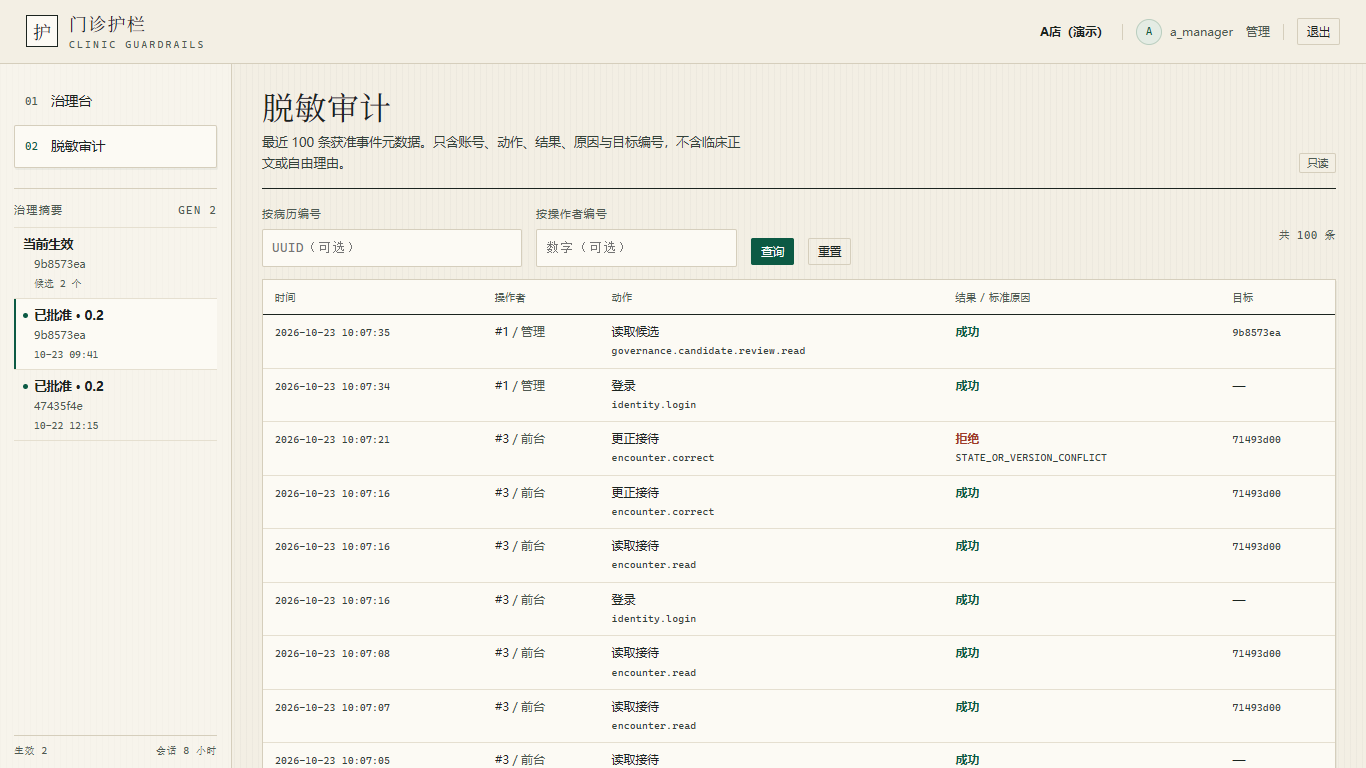
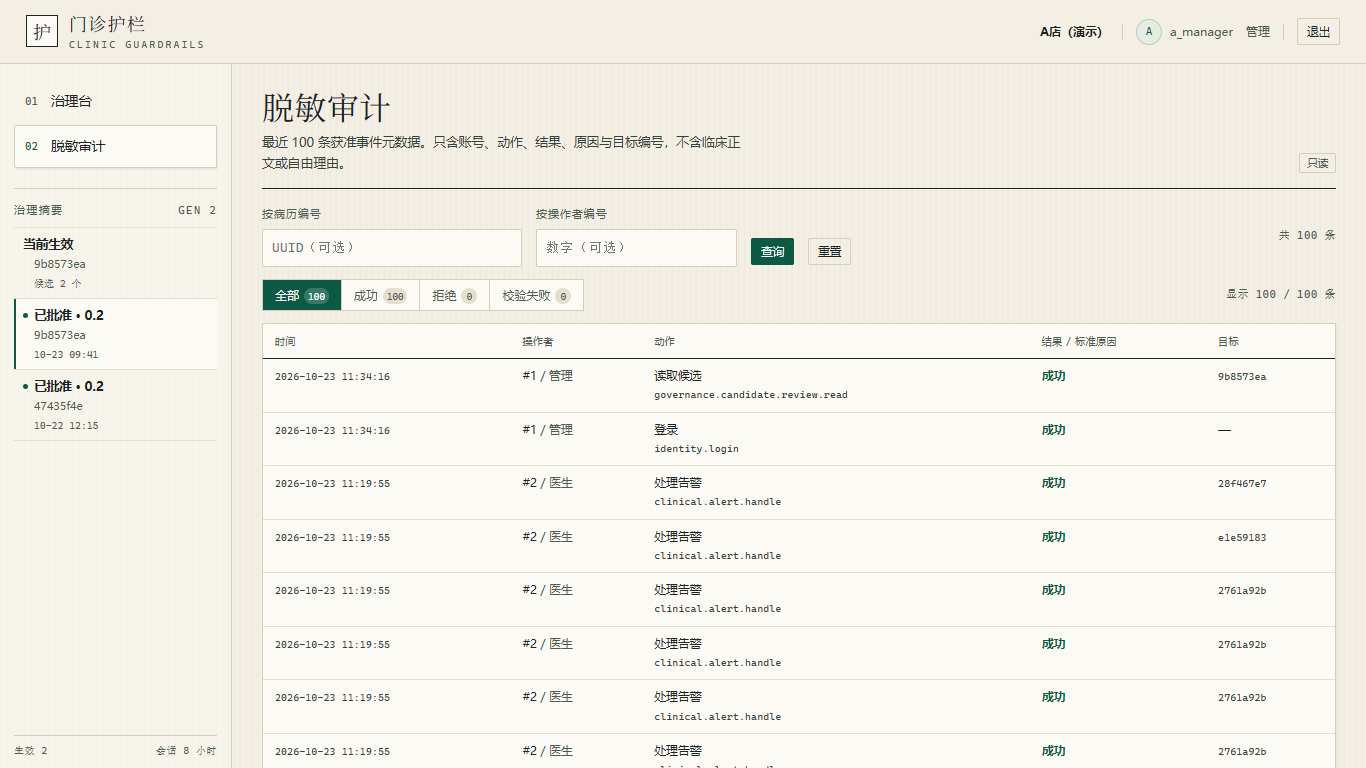
feat: add audit result filters
Show success/refused/validation counts on the audit page and filter the already-returned metadata client-side. Frontend only; no broader audit read.

diff --git a/05_系统代码/frontend/assets/app.js b/05_系统代码/frontend/assets/app.js
@@ -20,6 +20,7 @@ const state = {
   alertFilter: 'unhandled',
   selectedCandidate: '',
   auditFilters: { record_ref: '', operator_ref: '' },
+  auditOutcome: 'all',
   modal: null,
   reloadLatest: null,
   bootError: null
@@ -781,6 +782,7 @@ async function enterApp() {
   state.range = 'all';
   state.alertFilter = 'unhandled';
   state.auditFilters = { record_ref: '', operator_ref: '' };
+  state.auditOutcome = 'all';
   state.selectedCandidate = '';
   purgeForeignDrafts();
   await loadSidebar();
@@ -1700,7 +1702,15 @@ async function viewAudit(view) {
   if (f.record_ref) params.record_ref = f.record_ref;
   if (f.operator_ref) params.operator_ref = f.operator_ref;
   const data = await api('/api/audit' + (Object.keys(params).length ? '?' + qs(params) : ''));
-  const items = data.items || [];
+  const allItems = data.items || [];
+  const counts = {
+    all: allItems.length,
+    success: allItems.filter((e) => e.outcome === 'success').length,
+    refused: allItems.filter((e) => e.outcome === 'refused' || e.outcome === 'request_refused').length,
+    validation_failed: allItems.filter((e) => e.outcome === 'validation_failed').length
+  };
+  const items = state.auditOutcome === 'all' ? allItems :
+    allItems.filter((e) => state.auditOutcome === 'refused' ? (e.outcome === 'refused' || e.outcome === 'request_refused') : e.outcome === state.auditOutcome);
   const rows = items.map((e) => `<tr>
     <td class="nowrap"><code>${esc(fmtFull(e.event_at))}</code></td>
     <td class="nowrap">${e.operator_ref ? '#' + esc(e.operator_ref) : '—'} <span class="muted">/ ${esc(ROLES[e.operator_role] || e.operator_role || '—')}</span></td>
@@ -1719,8 +1729,14 @@ async function viewAudit(view) {
       <div class="field" style="min-width:200px"><label for="audit-operator">按操作者编号</label><input id="audit-operator" name="operator_ref" class="mono" type="text" value="${esc(f.operator_ref)}" placeholder="数字（可选）" autocomplete="off"></div>
       <button class="btn primary sm" type="submit" style="align-self:flex-end;margin-bottom:2px">查询</button>
       <button class="btn ghost sm" type="button" data-action="audit-reset" style="align-self:flex-end;margin-bottom:2px">重置</button>
-      <span class="count">共 ${items.length} 条</span>
+      <span class="count">共 ${allItems.length} 条</span>
     </form>
+    <div class="toolbar audit-outcomes">
+      <div class="seg" role="group" aria-label="审计结果">
+        ${[['all', '全部'], ['success', '成功'], ['refused', '拒绝'], ['validation_failed', '校验失败']].map(([k, l]) => `<button type="button" class="${state.auditOutcome === k ? 'on' : ''}" data-action="audit-outcome" data-outcome="${k}">${l}<span class="seg-count">${counts[k]}</span></button>`).join('')}
+      </div>
+      <span class="count">显示 ${items.length} / ${allItems.length} 条</span>
+    </div>
     <div class="table-wrap">
       <table class="table">
         <thead><tr><th>时间</th><th>操作者</th><th>动作</th><th>结果 / 标准原因</th><th>目标</th></tr></thead>
@@ -2423,7 +2439,8 @@ document.addEventListener('click', async (e) => {
         return;
       }
       case 'alert-filter': state.alertFilter = btn.dataset.filter; await renderRoute(); return;
-      case 'audit-reset': state.auditFilters = { record_ref: '', operator_ref: '' }; await renderRoute(); return;
+      case 'audit-reset': state.auditFilters = { record_ref: '', operator_ref: '' }; state.auditOutcome = 'all'; await renderRoute(); return;
+      case 'audit-outcome': state.auditOutcome = btn.dataset.outcome || 'all'; await renderRoute(); return;
       case 'regen-pet': {
         const input = $('#f-pet_ref');
         if (input) { input.value = uuid(); const form = input.form; if (form) saveDraft(form.dataset.draft, form); }

diff --git a/07_AI使用留痕/14_前端界面开发记录.md b/07_AI使用留痕/14_前端界面开发记录.md
@@ -102,6 +102,7 @@
 - 接诊/病历/告警/事件编号加「复制完整编号」，成功 toast，剪贴板失败回退选择文本；截图 `03_流程截图/30_复制完整编号.png`。
 - 列表页使用列表骨架，详情页保留纸框骨架；避免载入时从详情形状跳到列表。
 - 告警页签显示待处理/已处理/全部计数；截图 `02_最终界面/08_医生_告警.png`。
+- 审计页签显示成功/拒绝/校验失败/全部计数，筛选只作用于服务端已返回的元数据；截图 `02_最终界面/09_管理_脱敏审计.png`。
 - 新建接诊有未核对写入时在表单顶部提示沿用原幂等键，先回接诊台核对。
 - 683×384 等效 200% 视口检查：无横向溢出；未做浏览器缩放菜单逐项复核，截图 `03_流程截图/29_缩放200_诊疗队列.png`。
 - 告警/审计页签计数与审计结果筛选；回归脚本增加相应断言。

diff --git a/04_设计与控制文件/15_前端界面设计.md b/04_设计与控制文件/15_前端界面设计.md
@@ -114,7 +114,7 @@
 
 - 治理台：候选列表 + 定义摘要（红线、编码约束、字段投影、模板、质量目标）、校验结果、生成/提交/审批/启用历史。
 - 四个动作分别在弹窗填写理由；批准携带内容摘要，启用携带生效序号；批准不等于启用。
-- 审计只显示元数据；不提供诊断、主诉、处方、建议或自由文本理由。
+- 审计只显示元数据；不提供诊断、主诉、处方、建议或自由文本理由；可按病历/操作者筛选，并按成功、拒绝、校验失败显示计数与前端筛选（不扩大服务端返回范围）。
 
 ## 6. 失败、幂等与并发
 
